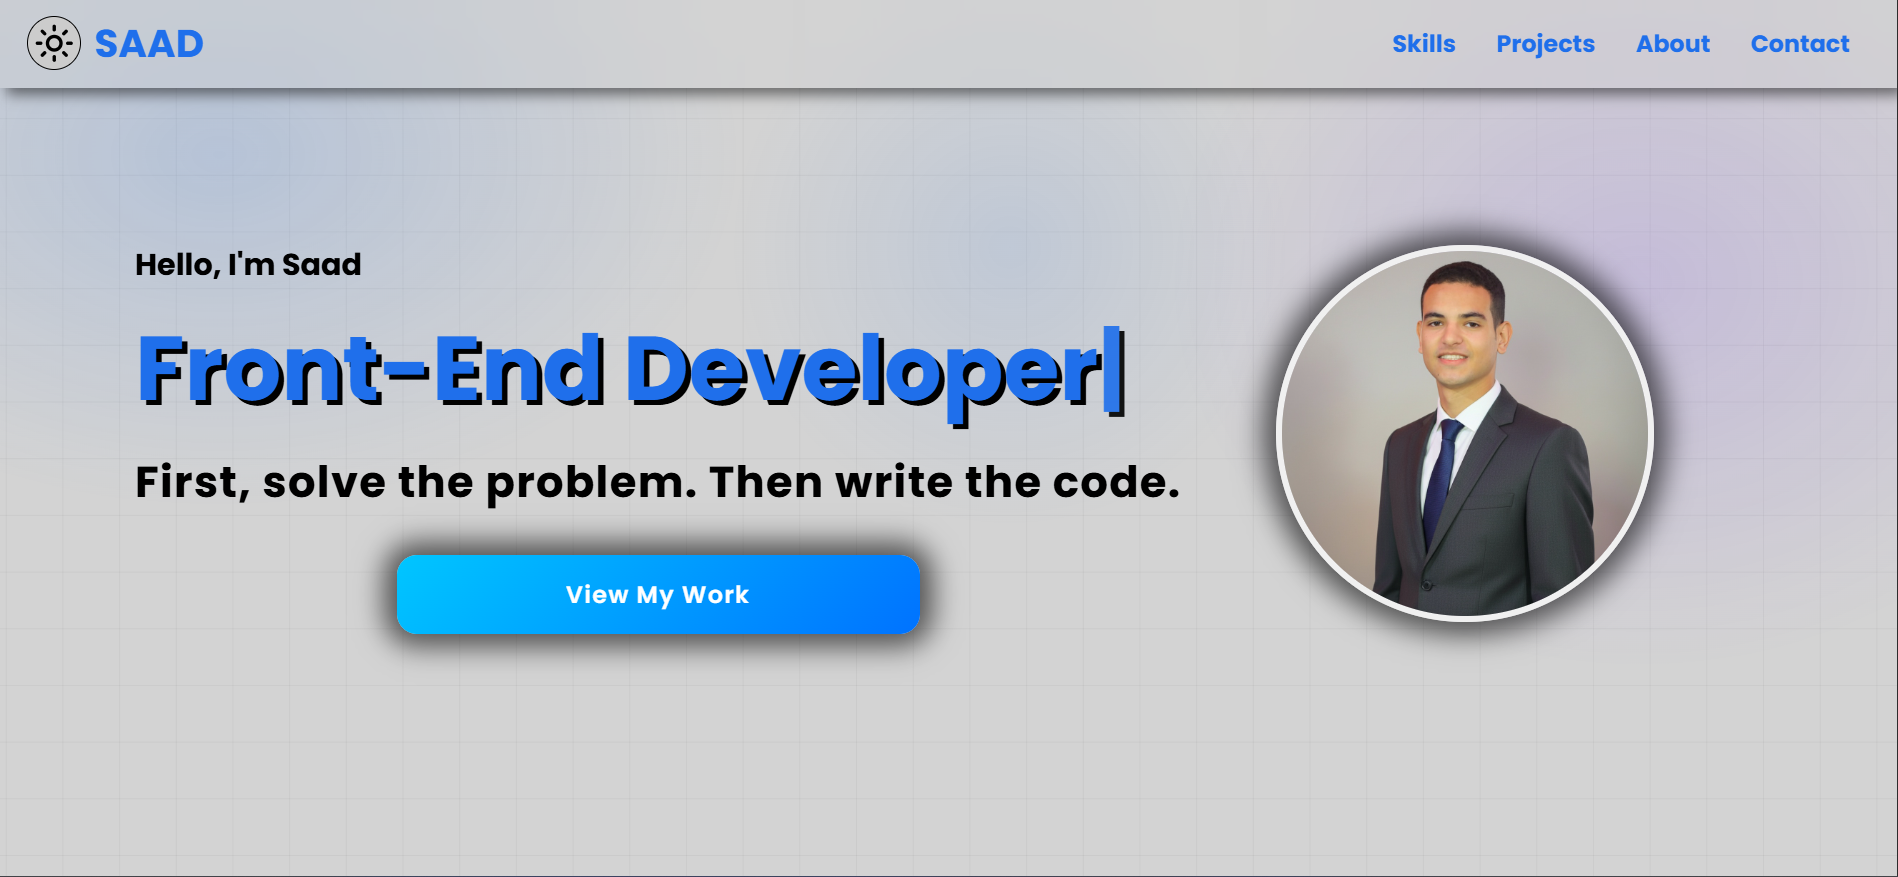
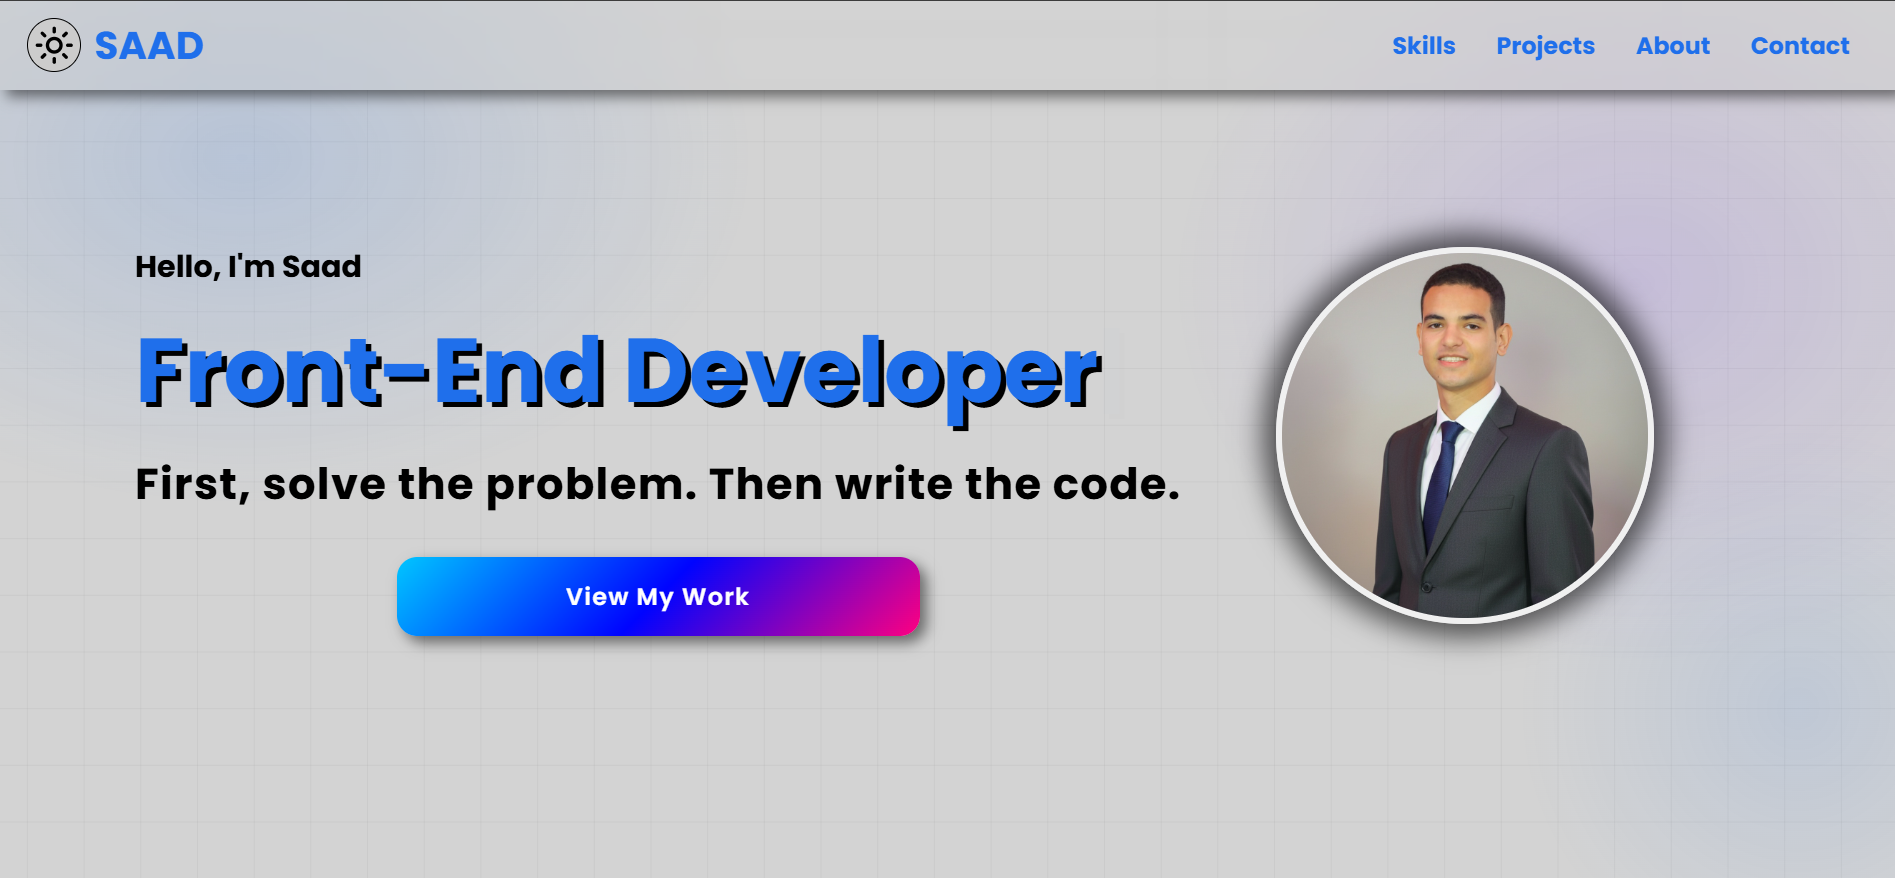
Update my README

diff --git a/README.md b/README.md
@@ -4,7 +4,7 @@
 https://saadcodes3.github.io/MyPortfolio/
 
 ## 📸 Preview
-![Portfolio Screenshot](images/screenshot.png)
+![Portfolio Screenshot](assets/images/screenshot.png)
 
 This is my personal portfolio website developed to showcase my skills and projects in Front-End Development.
 
@@ -13,7 +13,7 @@ The project is built using core web technologies with a strong focus on responsi
 ---
 
 ## 📄 Resume
-[Download my CV](assets/Saad_AlHusseiny_CV.pdf)
+[Download my CV](assets/docs/cv.pdf)
 
 ---
 